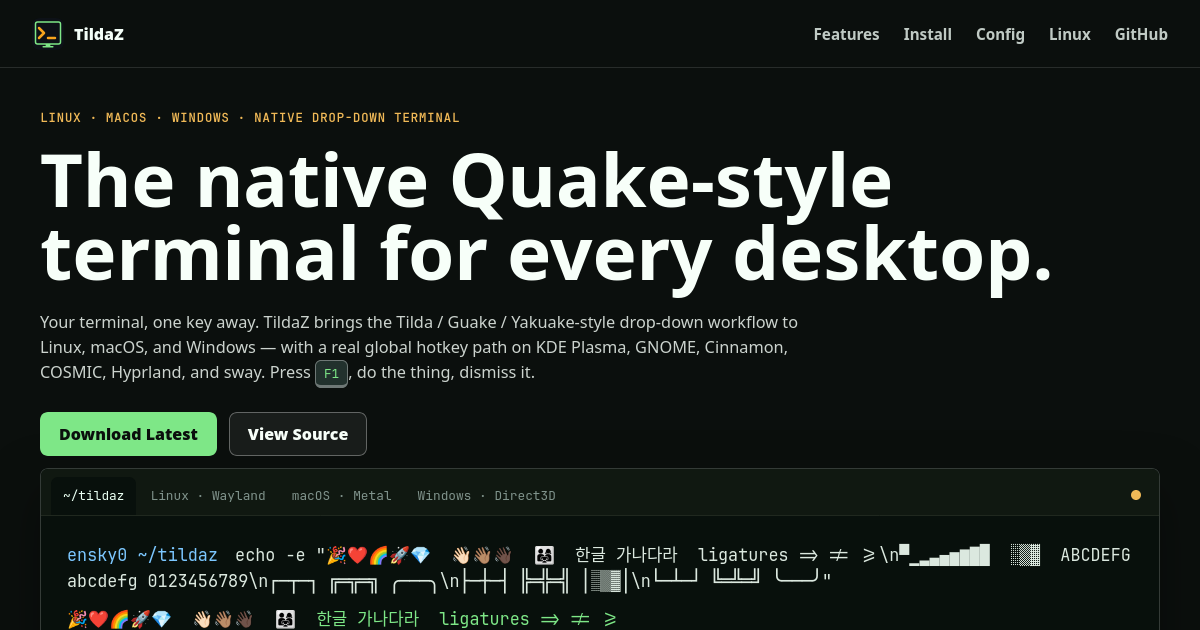
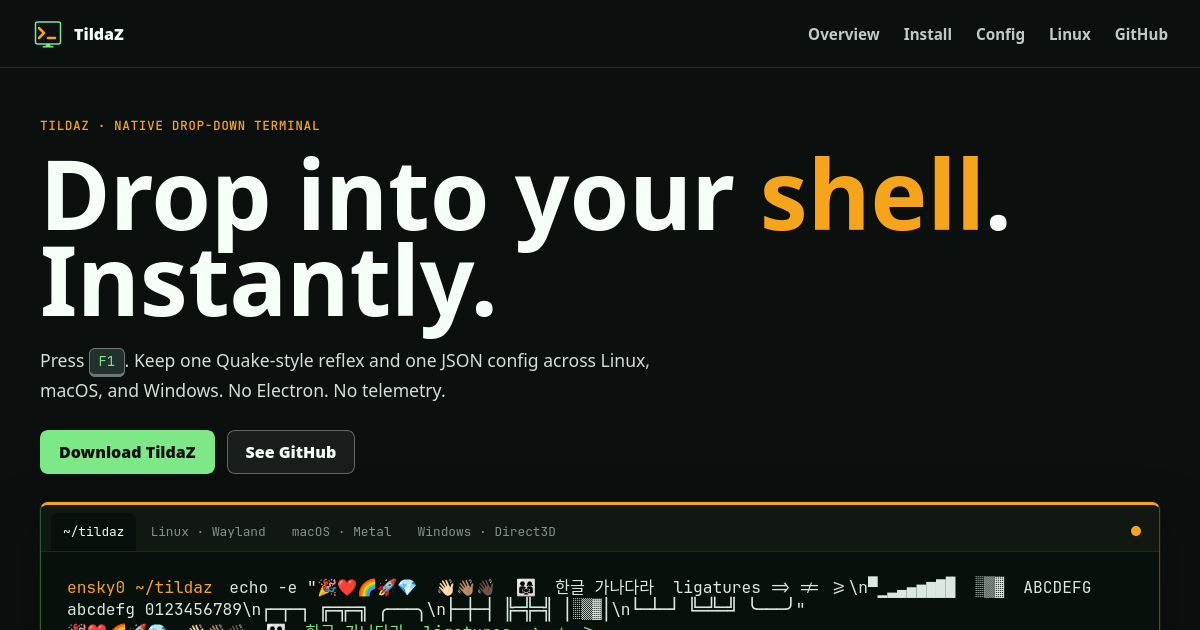
docs: 사이트 첫 화면 브랜드 강조 개선

diff --git a/docs/style.css b/docs/style.css
@@ -15,10 +15,13 @@
   --paper-strong: #141913;
   --line: #30382f;
   --line-dark: #20281f;
-  --forest: #7ee787;
+  --brand-green: #7ee787;
+  --brand-green-pressed: #74d47c;
+  --brand-orange: #F7A41D;
+  --forest: var(--brand-green);
   --forest-2: #151b23;
-  --mint: #7ee787;
-  --amber: #f0b957;
+  --mint: var(--brand-green);
+  --amber: var(--brand-orange);
   --blue: #79c0ff;
   --terminal: #08100c;
   --terminal-2: #101811;
@@ -128,7 +131,7 @@ kbd {
 .hero-inner {
   width: min(1120px, calc(100% - 40px));
   margin: 0 auto;
-  padding: 40px 0 34px;
+  padding: 48px 0 36px;
 }
 
 .eyebrow {
@@ -143,41 +146,51 @@ kbd {
 
 .hero h1 {
   margin: 0;
-  max-width: 1040px;
-  font-size: clamp(3.2rem, 6.2vw, 4.7rem);
-  line-height: 0.98;
+  max-width: 980px;
+  font-size: clamp(4.2rem, 8vw, 7rem);
+  line-height: 0.9;
   letter-spacing: 0;
 }
 
+.hero-accent {
+  color: var(--amber);
+}
+
 .hero-copy {
-  max-width: 800px;
-  margin: 22px 0 0;
-  color: rgba(247, 255, 249, 0.82);
-  font-size: clamp(1.02rem, 1.3vw, 1.16rem);
+  max-width: 660px;
+  margin: 24px 0 0;
+  color: rgba(247, 255, 249, 0.86);
+  font-size: clamp(1.1rem, 1.45vw, 1.28rem);
 }
 
 .hero-actions {
   display: flex;
   flex-wrap: wrap;
   gap: 12px;
-  margin-top: 24px;
+  margin-top: 26px;
 }
 
 .hero-proof {
   display: flex;
   flex-wrap: wrap;
   gap: 8px;
-  margin-top: 14px;
-  color: rgba(247, 255, 249, 0.72);
+  margin-top: 12px;
+  color: rgba(247, 255, 249, 0.82);
   font-family: var(--mono);
   font-size: 0.78rem;
+  font-weight: 800;
 }
 
 .hero-proof span {
   padding: 7px 10px;
-  border: 1px solid rgba(255, 255, 255, 0.14);
+  border: 1px solid rgba(126, 231, 135, 0.42);
   border-radius: 999px;
-  background: rgba(255, 255, 255, 0.04);
+  background: rgba(126, 231, 135, 0.08);
+}
+
+.hero-proof span:first-child {
+  border-color: rgba(247, 164, 29, 0.56);
+  background: rgba(247, 164, 29, 0.1);
 }
 
 .button {
@@ -197,7 +210,7 @@ kbd {
 }
 
 .button.primary:hover {
-  background: #8be8ae;
+  background: var(--brand-green-pressed);
 }
 
 .button.secondary {
@@ -212,12 +225,13 @@ kbd {
 
 .terminal-surface {
   width: 100%;
-  margin-top: 12px;
-  border: 1px solid rgba(255, 255, 255, 0.18);
+  margin-top: 28px;
+  border: 1px solid rgba(126, 231, 135, 0.34);
+  border-top: 3px solid var(--amber);
   border-radius: 8px 8px 0 0;
   overflow: hidden;
   background: var(--terminal);
-  box-shadow: 0 22px 50px rgba(0, 0, 0, 0.34);
+  box-shadow: 0 22px 50px rgba(0, 0, 0, 0.34), 0 0 0 1px rgba(247, 164, 29, 0.08);
 }
 
 .surface-top {
@@ -258,23 +272,23 @@ kbd {
 }
 
 .terminal-grid {
-  min-height: 230px;
-  padding: 26px;
+  min-height: 216px;
+  padding: 24px 26px;
   color: #dbe8df;
   font-family: var(--mono);
-  font-size: clamp(0.88rem, 1.4vw, 1.05rem);
+  font-size: clamp(0.92rem, 1.35vw, 1.06rem);
   font-feature-settings: "liga" 1, "calt" 1;
+  line-height: 1.38;
 }
 
 .terminal-grid p {
-  margin: 0 0 12px;
+  margin: 0;
   white-space: pre-wrap;
   overflow-wrap: break-word;
 }
 
-/* Box-drawing art is a single block (no inter-row paragraph margin) so the rows
-   join into a connected box. Line-height matches the surrounding text so the box
-   glyphs are the same size as the box chars in the typed command above. */
+/* Keep box-drawing art in one block so rows use the same terminal rhythm and
+   stay visually connected. */
 .terminal-grid p.box-art {
   margin-top: 0;
 }
@@ -293,7 +307,7 @@ kbd {
 .shade-3 { background: color-mix(in srgb, currentColor 75%, transparent); }
 
 .prompt {
-  color: #7cc7ff;
+  color: var(--amber);
   margin-right: 0.7ch;
 }
 
@@ -353,9 +367,13 @@ kbd {
 }
 
 .release-band a {
-  color: var(--blue);
+  color: var(--amber);
   font-weight: 800;
   white-space: nowrap;
+}
+
+.release-band a:hover {
+  color: var(--mint);
 }
 
 .section {

diff --git a/docs/index.html b/docs/index.html
@@ -52,7 +52,7 @@
       <span>TildaZ</span>
     </a>
     <div class="nav-links">
-      <a href="#features">Features</a>
+      <a href="./">Overview</a>
       <a href="install/">Install</a>
       <a href="config/">Config</a>
       <a href="linux-wayland/">Linux</a>
@@ -62,17 +62,15 @@
 
   <header class="hero">
     <div class="hero-inner">
-      <p class="eyebrow">Linux · macOS · Windows · Native drop-down terminal</p>
-      <h1>The native Quake-style terminal for every desktop.</h1>
+      <p class="eyebrow">TildaZ · Native drop-down terminal</p>
+      <h1>Drop into your <span class="hero-accent">shell</span>.<br>Instantly.</h1>
       <p class="hero-copy">
-        Your terminal, one key away. TildaZ brings the Tilda / Guake /
-        Yakuake-style drop-down workflow to Linux, macOS, and Windows — with a
-        real global hotkey path on KDE Plasma, GNOME, Cinnamon, COSMIC,
-        Hyprland, and sway. Press <kbd>F1</kbd>, do the thing, dismiss it.
+        Press <kbd>F1</kbd>. Keep one Quake-style reflex and one JSON config
+        across Linux, macOS, and Windows. No Electron. No telemetry.
       </p>
       <div class="hero-actions">
-        <a class="button primary" href="https://github.com/ensky0/tildaz/releases/latest" target="_blank" rel="noopener">Download Latest</a>
-        <a class="button secondary" href="https://github.com/ensky0/tildaz" target="_blank" rel="noopener">View Source</a>
+        <a class="button primary" href="https://github.com/ensky0/tildaz/releases/latest" target="_blank" rel="noopener">Download TildaZ</a>
+        <a class="button secondary" href="https://github.com/ensky0/tildaz" target="_blank" rel="noopener">See GitHub</a>
       </div>
 
       <div class="terminal-surface" aria-label="TildaZ terminal preview">
@@ -96,10 +94,9 @@
       </div>
 
       <div class="hero-proof" aria-label="TildaZ highlights">
-        <span>Direct Wayland on Linux</span>
-        <span>AppKit + Metal on macOS</span>
-        <span>Win32 + Direct3D on Windows</span>
-        <span>No Electron. No telemetry.</span>
+        <span>Linux · macOS · Windows</span>
+        <span>One config file</span>
+        <span>Native terminal core</span>
       </div>
     </div>
   </header>

diff --git a/docs/config/index.html b/docs/config/index.html
@@ -34,7 +34,7 @@
       <span>TildaZ</span>
     </a>
     <div class="nav-links">
-      <a href="../#features">Features</a>
+      <a href="../">Overview</a>
       <a href="../install/">Install</a>
       <a href="../config/">Config</a>
       <a href="../linux-wayland/">Linux</a>

diff --git a/docs/install/index.html b/docs/install/index.html
@@ -34,7 +34,7 @@
       <span>TildaZ</span>
     </a>
     <div class="nav-links">
-      <a href="../#features">Features</a>
+      <a href="../">Overview</a>
       <a href="../install/">Install</a>
       <a href="../config/">Config</a>
       <a href="../linux-wayland/">Linux</a>

diff --git a/docs/linux-wayland/index.html b/docs/linux-wayland/index.html
@@ -34,7 +34,7 @@
       <span>TildaZ</span>
     </a>
     <div class="nav-links">
-      <a href="../#features">Features</a>
+      <a href="../">Overview</a>
       <a href="../install/">Install</a>
       <a href="../config/">Config</a>
       <a href="../linux-wayland/">Linux</a>